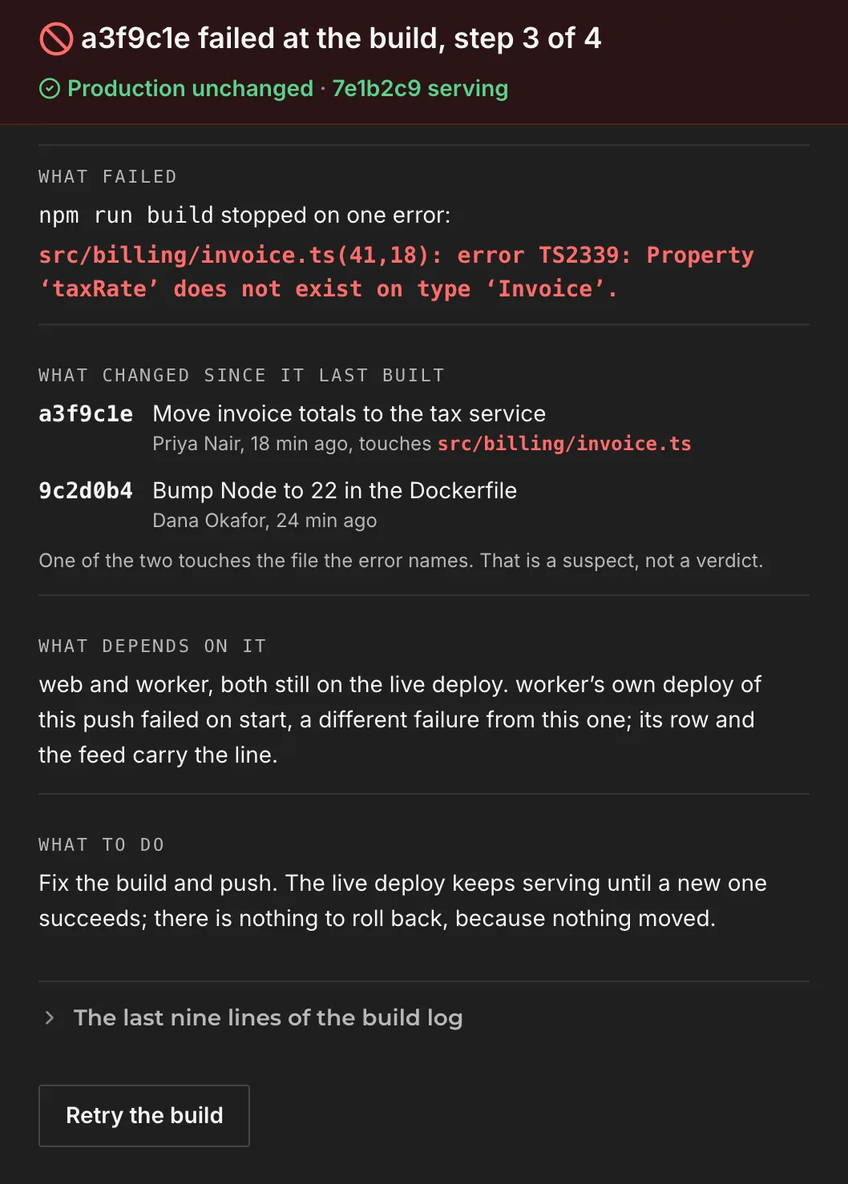
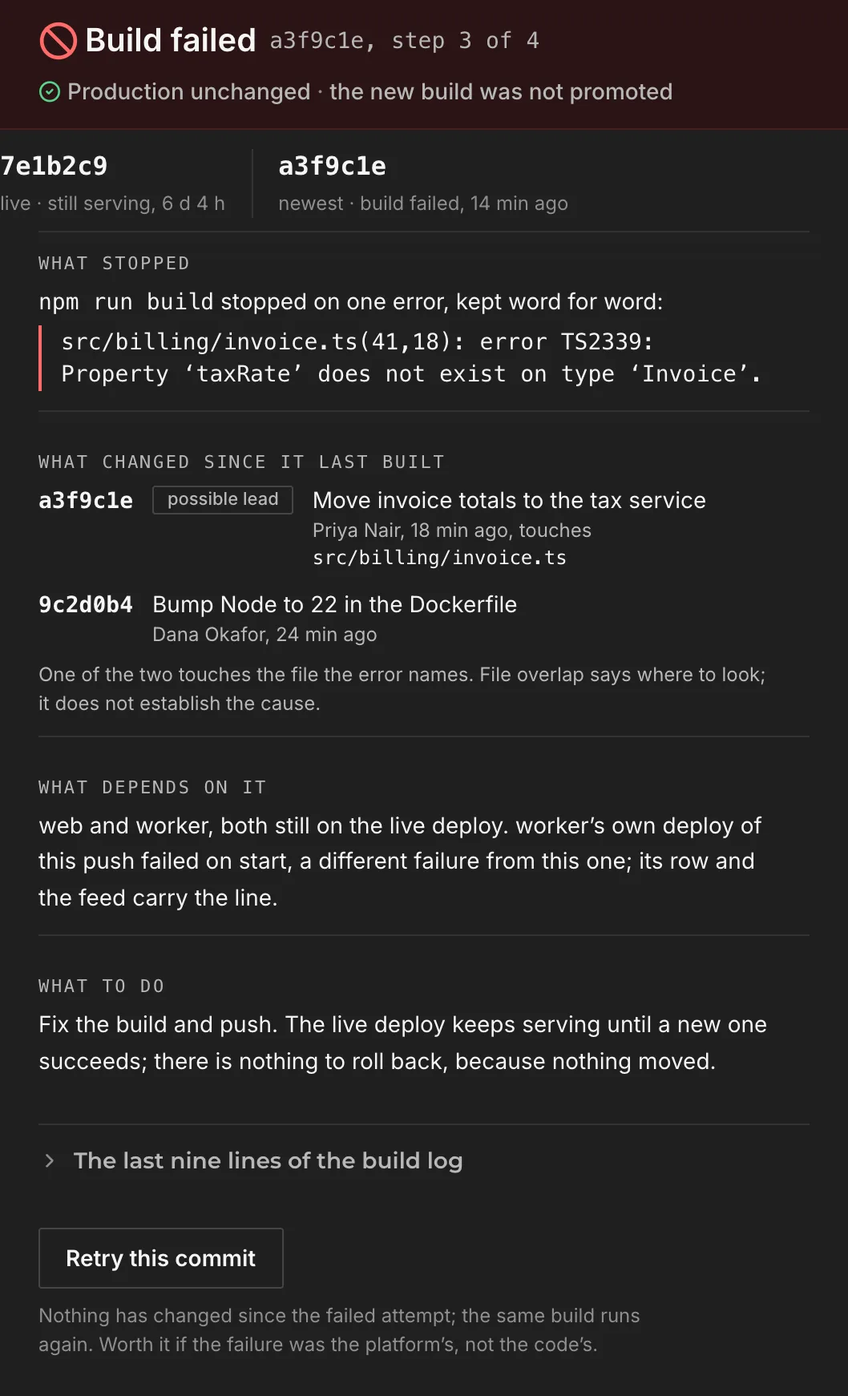
The console's first deploy and its refusal after a critique: absence as a state, deploy apart from run, the error as the anchor, the suspect as a lead
Part 2, the overview and the first deploy. The never-deployed row was a
row of muted gray that read as disabled; it is a state now: "Not deployed
· no version is serving", "None yet", "not available · runs after the
first deploy", and a Deploy button in the row, so the empty state leads
somewhere without a press on the row first. The last column is headed
Action, since it answers "what can I do from here" and the answer differs
by kind. The project card reads as a sentence about the system, "6 · 3
serving, 2 datastores, 1 not deployed", and says "1 failing" when one is.
The chip says "All services healthy" in the normal state, quietly, so a
missing chip is never the signal. The first deploy's card is a readiness
list, requirement then value then provenance as a tertiary mono line, with
a small check on each; the steps carry a muted numeral after their state
glyph; while it runs the button becomes a state line rather than a
disabled button; and after it lands two figures keep deploy success apart
from run success: "Live · deploy · 9f3e1a2" and "Not yet · first run",
then "Completed, 4 s". The headline is "nightly-report has never
deployed." over "Nothing is wrong. No version of this job has been built
or run yet." An open row and its drawer share a violet edge.

Part 3, the refusal. The header is a 20px "Build failed" with the commit
and step in the second ink beside it, over "Production unchanged · the
new build was not promoted" at medium weight with a green glyph rather
[…]

diff --git a/prototype/deploy-console.js b/prototype/deploy-console.js
@@ -478,7 +478,7 @@
      "none": nothing to probe, and the word says why in the detail. */
   function health(s) {
     if (!s.deploys) return { state: 'none', word: 'provisioned' };
-    if (!s.deploys.length) return { state: 'none', word: 'never deployed' };
+    if (!s.deploys.length) return { state: 'none', word: 'not available', fig: 'runs after the first deploy' };
     const n = newest(s);
     if (n && n.first && n.status === 'live') {
       return state.first && state.first.ran
@@ -559,6 +559,9 @@
     }
     const refused = state.services.find((s) => { const n = newest(s); return n && n.status === 'failed' && live(s); });
     if (refused) return { tone: 'green', glyph: 'checkCircle', text: `Production unchanged <span class="dc-sep" aria-hidden="true">&middot;</span> ${esc(live(refused).commit)} serving` };
+    /* The normal state says so quietly, so a chip that is missing is never
+       the signal; what is missing is an incident. */
+    if (state.services.some((s) => live(s))) return { tone: 'quiet', glyph: 'checkCircle', text: 'All services healthy' };
     return null;
   }
   const incidentChip = () => { const i = incident(); return i ? `<p class="dc-incident" data-tone="${i.tone}">${icon(i.glyph)}<span>${i.text}</span></p>` : ''; };
@@ -618,6 +621,7 @@
     const p = DATA.project;
     const serving = state.services.filter((s) => live(s)).length;
     const never = state.services.filter((s) => s.deploys && !s.deploys.length).length;
+    const failing = state.services.filter((s) => live(s) && health(s).state === 'failing').length;
     const stores = state.services.filter((s) => !s.deploys).length;
     const last = state.services
       .map((s) => ({ s, d: newest(s) }))
@@ -626,7 +630,7 @@
     const lastWord = last ? `${last.s.id}, ${ago(last.d.ago)}${last.d.status === 'failed' ? ', failed' : last.d.status === 'building' ? ', building' : ''}` : 'none';
     $('.dc-project', root).innerHTML = `
       <dl class="dc-project-facts">
-        <div><dt>${icon('boxes')}Services</dt><dd>${serving} of ${state.services.length} serving, ${stores} datastores${never ? `, ${never} never deployed` : ''}</dd></div>
+        <div><dt>${icon('boxes')}Resources</dt><dd>${state.services.length} <span class="dc-sep" aria-hidden="true">&middot;</span> ${serving - failing} serving${failing ? `, ${failing} failing` : ''}, ${stores} datastores${never ? `, ${never} not deployed` : ''}</dd></div>
         <div><dt>${icon('commit')}Last deploy</dt><dd>${esc(lastWord)}</dd></div>
         <div><dt>${icon('pin')}Region</dt><dd>${esc(p.region)}</dd></div>
         <div><dt>${icon('clock')}Now</dt><dd>${clock(p.nowMin)}</dd></div>
@@ -703,8 +707,12 @@
 
   /* One commit in a "what changed" list: the hash, the message, who and
      when, and the file the error names when this commit touched it. */
+  /* THE SUSPECT IS A LEAD, NOT A VERDICT, and its treatment says so: a
+     quiet tag, the file in the ordinary ink, and the fine line under the
+     list saying what file overlap does and does not establish. It used to
+     be a red file name, which reads as a culprit whatever the copy says. */
   const changeRow = (c, suspectFile) => `<li class="dc-change${suspectFile && c.touches === suspectFile ? ' is-suspect' : ''}">
-    <span class="dc-sha">${esc(c.sha)}</span>
+    <span class="dc-sha">${esc(c.sha)}${suspectFile && c.touches === suspectFile ? ` <span class="dc-tag dc-tag-lead">possible lead</span>` : ''}</span>
     <span class="dc-change-body"><span class="dc-change-msg">${esc(c.msg)}</span>
       <span class="dc-change-who">${esc(c.by)}, ${ago(c.ago)}${c.touches ? `, touches <span class="dc-file">${esc(c.touches)}</span>` : ''}</span></span>
   </li>`;
@@ -733,7 +741,14 @@
      the button names one row; the card's button names everything the plan
      will take. */
   function rollbackButton(s, cls = 'dc-btn', terse = false) {
-    if (!s.deploys || !s.deploys.length) return '';
+    if (!s.deploys) return '';
+    /* A service that has never deployed can be deployed from its row: the
+       empty state leads somewhere without a press on the row first. */
+    if (!s.deploys.length) {
+      if (!s.first) return '';
+      if (state.first && !state.first.done) return `<button type="button" class="${cls.replace('dc-btn-primary', 'dc-btn-quiet')}${cls.includes('dc-btn-quiet') ? '' : ' dc-btn-quiet'}" aria-disabled="true" data-focus="deploy">Deploying&hellip;</button>`;
+      return `<button type="button" class="${cls}${cls.includes('dc-btn-quiet') || cls.includes('dc-btn-primary') ? '' : ' dc-btn-quiet'}" data-deploy="${esc(s.id)}" data-focus="deploy">Deploy${terse ? `<span class="dc-btn-id dc-btn-id--quiet"> ${esc(s.id)}</span>` : ` ${esc(s.id)}`}</button>`;
+    }
     /* IN FLIGHT: the control admits the press was taken and refuses a second
        one. Not disabled in the DOM, so it stays in the tab order and reads;
        aria-disabled says what it is. */
@@ -863,23 +878,31 @@
         <p class="dc-lead-kicker dc-label">First deploy</p>
         <h3 class="dc-answer-h">${done
           ? (fs.ran ? `${esc(s.id)} ran once and wrote its report. It runs at 3:00 am from now on.` : `${esc(s.id)} is live at its first deploy.`)
-          : fs ? `Deploying ${esc(s.id)} for the first time.` : `${esc(s.id)} was created and has never deployed.`}</h3>
+          : fs ? `Deploying ${esc(s.id)} for the first time.` : `${esc(s.id)} has never deployed.`}</h3>
         <p class="dc-answer-dek">${done
           ? (fs.ran ? `Exit 0 in 4 seconds, one report written to ${esc('postgres')}. Nothing more to set up.` : `Built from ${esc(f.commit)} and scheduled. The first run is at 3:00 am; run it now to see one succeed before then.`)
-          : fs ? `Four steps, in order. The build and start commands come from the repository; the schedule was set when the job was created.` : `Nothing is wrong; nothing has happened yet. Three of the four things it needs were read from the repository, and one was set by hand.`}</p>
+          : fs ? `Four steps, in order. The build and start commands come from the repository; the schedule was set when the job was created.` : `Nothing is wrong. No version of this job has been built or run yet. Three of the four things it needs were read from the repository, and one was set by hand.`}</p>
         <div class="dc-pair">
           <div class="dc-card" data-enter="first:${esc(s.id)}">
-            <p class="dc-card-head">${done ? 'The first deploy' : 'Before the first deploy'}</p>
-            <dl class="dc-answers">
-              <div><dt>Build command</dt><dd><span class="dc-cmd">${esc(f.build)}</span> <span class="dc-answers-fine">read from package.json</span></dd></div>
-              <div><dt>Start command</dt><dd><span class="dc-cmd">${esc(f.start)}</span> <span class="dc-answers-fine">read from package.json</span></dd></div>
-              <div><dt>Schedule</dt><dd>${esc(f.schedule)} <span class="dc-answers-fine">set when the job was created</span></dd></div>
-              <div><dt>Needs</dt><dd>${esc('postgres')}, which is provisioned; its address is already in the environment.</dd></div>
+            <p class="dc-card-head">${done ? 'The first deploy' : 'Ready to deploy'}</p>
+            ${done ? `<div class="dc-figures">
+              ${figure('Live', `deploy · ${f.commit}`)}
+              ${figure(fs.ran ? 'Completed, 4 s' : 'Not yet', `first run · ${fs.ran ? 'exit 0' : 'scheduled 3:00 am'}`)}
+            </div>` : ''}
+            <!-- THE READINESS LIST: requirement, value, provenance, one
+                 hierarchy. The check is small and quiet; four large green
+                 ticks would be decoration. Provenance is the tertiary line,
+                 there to be verified, not to be read every time. -->
+            <dl class="dc-answers dc-ready">
+              <div><dt>${icon('check')}Build command</dt><dd><span class="dc-cmd">${esc(f.build)}</span> <span class="dc-answers-fine">&#8627; package.json</span></dd></div>
+              <div><dt>${icon('check')}Start command</dt><dd><span class="dc-cmd">${esc(f.start)}</span> <span class="dc-answers-fine">&#8627; package.json</span></dd></div>
+              <div><dt>${icon('check')}Schedule</dt><dd>${esc(f.schedule)} <span class="dc-answers-fine">&#8627; set when the job was created</span></dd></div>
+              <div><dt>${icon('check')}Needs</dt><dd>${esc('postgres')}, provisioned <span class="dc-answers-fine">&#8627; its address is in the environment</span></dd></div>
             </dl>
-            ${fs ? `<ol class="dc-steps" aria-label="The deploy, step by step">${f.steps.map((t, i) => `<li data-step="${i < stepAt ? 'done' : i === stepAt ? 'now' : 'next'}">${icon(i < stepAt ? 'checkCircle' : i === stepAt ? 'clock' : 'circle')}<span>${esc(t)}</span></li>`).join('')}</ol>` : ''}
+            ${fs ? `<ol class="dc-steps" aria-label="The deploy, step by step">${f.steps.map((t, i) => `<li data-step="${i < stepAt ? 'done' : i === stepAt ? 'now' : 'next'}">${icon(i < stepAt ? 'checkCircle' : i === stepAt ? 'clock' : 'circle')}<span class="dc-step-n" aria-hidden="true">${i + 1}</span><span>${esc(t)}</span></li>`).join('')}</ol>` : ''}
             <p class="dc-card-act">${done
               ? (fs.ran ? `<button type="button" class="dc-btn dc-btn-quiet" aria-disabled="true">Ran ${icon('check')} exit 0</button>` : `<button type="button" class="dc-btn dc-btn-primary" data-run="${esc(s.id)}" data-focus="deploy">Run it now</button>`)
-              : fs ? `<button type="button" class="dc-btn dc-btn-quiet" aria-disabled="true" data-focus="deploy">Deploying&hellip;</button>`
+              : fs ? `<span class="dc-card-state" data-focus="deploy" tabindex="-1">${icon('clock')}Deploying ${esc(s.id)}</span>`
               : `<button type="button" class="dc-btn dc-btn-primary" data-deploy="${esc(s.id)}" data-focus="deploy">Deploy ${esc(s.id)}</button>`}</p>
           </div>
           <div class="dc-aside" data-enter="aside:${esc(s.id)}">
@@ -907,20 +930,27 @@
         <div class="dc-pair">
           <div class="dc-fail" data-enter="fail:${esc(s.id)}">
             <div class="dc-fail-head">
-              <p class="dc-fail-title">${icon('ban', 'dc-fail-glyph')}${esc(n.commit)} failed at the ${esc(f.stage)}, step ${f.step} of ${f.of}</p>
-              <p class="dc-fail-status">${icon('checkCircle')}<span>Production unchanged <span class="dc-sep" aria-hidden="true">&middot;</span> ${esc(l.commit)} serving</span></p>
+              <p class="dc-fail-title">${icon('ban', 'dc-fail-glyph')}Build failed <span class="dc-fail-title-sub">${esc(n.commit)}, step ${f.step} of ${f.of}</span></p>
+              <p class="dc-fail-status">${icon('checkCircle')}<span>Production unchanged <span class="dc-sep" aria-hidden="true">&middot;</span> the new build was not promoted</span></p>
+            </div>
+            <!-- LIVE AGAINST NEWEST, compact, at the top of the refusal: the
+                 one fact a reader wants before the diagnosis, without going
+                 back to the table for it. -->
+            <div class="dc-figures dc-fail-vs">
+              ${figure(esc(l.commit), `live · still serving, ${span(l.ago)}`)}
+              ${figure(esc(n.commit), `newest · build failed, ${ago(n.ago)}`)}
             </div>
             <dl class="dc-answers">
-              <div><dt>What failed</dt><dd><span class="dc-cmd">${esc(f.cmd)}</span> stopped on one error: <span class="dc-line">${esc(f.line)}</span></dd></div>
+              <div><dt>What stopped</dt><dd><span class="dc-cmd">${esc(f.cmd)}</span> stopped on one error, kept word for word: <span class="dc-line">${esc(f.line)}</span></dd></div>
               <div><dt>What changed since it last built</dt><dd>
                 <ol class="dc-changes">${n.changes.map((c) => changeRow(c, 'src/billing/invoice.ts')).join('')}</ol>
-                <span class="dc-answers-fine">One of the two touches the file the error names. That is a suspect, not a verdict.</span>
+                <span class="dc-answers-fine">One of the two touches the file the error names. File overlap says where to look; it does not establish the cause.</span>
               </dd></div>
               <div><dt>What depends on it</dt><dd>${deps.map((d) => esc(d.id)).join(' and ')}, both still on the live deploy. worker&rsquo;s own deploy of this push failed on start, a different failure from this one; its row and the feed carry the line.</dd></div>
               <div><dt>What to do</dt><dd>Fix the build and push. The live deploy keeps serving until a new one succeeds; there is nothing to roll back, because nothing moved.${state.retried ? ' <strong>Retried once, at ' + clock(DATA.project.nowMin) + ': the same error on the same line.</strong>' : ''}</dd></div>
             </dl>
             ${logDisclosure(f.log, 'error TS2339', 'The last nine lines of the build log')}
-            <p class="dc-card-act"><button type="button" class="dc-btn dc-btn-quiet" data-retry="${esc(s.id)}" data-focus="retry">Retry the build</button></p>
+            <p class="dc-card-act"><button type="button" class="dc-btn dc-btn-quiet" data-retry="${esc(s.id)}" data-focus="retry">Retry this commit</button><span class="dc-card-act-note">Nothing has changed since the failed attempt; the same build runs again. Worth it if the failure was the platform&rsquo;s, not the code&rsquo;s.</span></p>
           </div>
           <div class="dc-aside" data-enter="aside:${esc(s.id)}">
             <h4 class="dc-h">Live and serving</h4>
@@ -1226,7 +1256,10 @@
     { key: 'newest',  label: 'Newest deploy', sortable: true, unit: 'latest push, may not be live' },
     { key: 'health',  label: 'Health',       sortable: true },
     { key: 'deps',    label: 'Depends on',   sortable: false },
-    { key: 'act',     label: 'Roll back',    sortable: false, act: true },
+    /* The last column answers "what can I do from here": Roll back on a
+       deployed service, Deploy on one that never has, nothing on a
+       datastore. So it is headed Action, not Roll back. */
+    { key: 'act',     label: 'Action',       sortable: false, act: true },
   ];
 
   const HEALTH_ORDER = { failing: 0, recovering: 1, ok: 2, none: 3 };
@@ -1243,7 +1276,7 @@
   function newestCell(s) {
     const n = newest(s);
     if (!s.deploys) return `<span class="dc-cell-note">provisioned, not deployed</span>`;
-    if (!n) return `<span class="dc-cell-note">never</span>`;
+    if (!n) return `<span class="dc-cell-text">None yet</span>`;
     const l = live(s);
     const same = l && l.commit === n.commit && n.status === 'live';
     const tag = n.status === 'failed' ? `<span class="dc-tag dc-tag-failed">${icon('ban')}failed</span>`
@@ -1322,13 +1355,13 @@
       const same = l && n && l.commit === n.commit && n.status === 'live';
       const dot = '<span class="dc-sep" aria-hidden="true">&middot;</span>';
       const phoneSum = !s.deploys ? '' : `<span class="dc-svc-sum">
-          <span>${l ? `live <span class="dc-svc-when"><span class="dc-sha">${esc(l.commit)}</span> ${dot} ${l.ago < 1 ? 'just now' : span(l.ago)}</span>` : 'nothing live yet'}</span>
-          <span>${!n ? 'never deployed' : n.rollback || !same ? `newest <span class="dc-svc-when"><span class="dc-sha">${esc(n.commit)}</span> ${tag || `${dot} ${ago(n.ago)}`}</span>` : 'newest is the live one'}</span>
+          <span>${l ? `live <span class="dc-svc-when"><span class="dc-sha">${esc(l.commit)}</span> ${dot} ${l.ago < 1 ? 'just now' : span(l.ago)}</span>` : 'not deployed'}</span>
+          <span>${!n ? 'newest: none yet' : n.rollback || !same ? `newest <span class="dc-svc-when"><span class="dc-sha">${esc(n.commit)}</span> ${tag || `${dot} ${ago(n.ago)}`}</span>` : 'newest is the live one'}</span>
         </span>`;
-      return `<tr class="${cls.join(' ')}" data-service="${esc(s.id)}" style="--i:${i}">
+      return `<tr class="${cls.join(' ')}" data-service="${esc(s.id)}"${open ? ' data-open="true"' : ''} style="--i:${i}">
         <th scope="row" class="dc-cell-svc"><button type="button" class="dc-row-more" data-more="${esc(s.id)}" data-focus="more:${esc(s.id)}" aria-expanded="${open}" aria-controls="dc-detail-${esc(s.id)}">${esc(s.id)}<span class="dc-visually-hidden">, ${open ? 'hide' : 'show'} its history</span>${icon('expand', 'dc-icon dc-row-chev')}</button>${phoneSum}</th>
         <td class="dc-cell-type">${esc(s.type)}</td>
-        <td class="dc-cell-live">${l ? `<span class="dc-sha">${esc(l.commit)}</span><span class="dc-cell-note">serving for ${span(l.ago)}</span>` : `<span class="dc-cell-note">${s.deploys ? 'nothing yet' : 'n/a'}</span>`}</td>
+        <td class="dc-cell-live">${l ? `<span class="dc-sha">${esc(l.commit)}</span><span class="dc-cell-note">serving for ${span(l.ago)}</span>` : s.deploys ? `<span class="dc-cell-text">Not deployed</span><span class="dc-cell-note">no version is serving</span>` : `<span class="dc-cell-note">n/a</span>`}</td>
         <td class="dc-cell-newest">${newestCell(s)}</td>
         <td class="dc-cell-health" data-health="${h.state}"><span class="dc-health-word">${h.state === 'failing' ? icon('alert') : h.state === 'ok' ? icon('checkCircle') : h.state === 'recovering' ? icon('undo') : ''}${esc(h.word)}</span>${h.fig ? `<span class="dc-cell-note">${esc(h.fig)}</span>` : ''}</td>
         <td class="dc-cell-deps">${s.needs.length ? s.needs.map(esc).join(', ') : '<span class="dc-cell-note">nothing</span>'}</td>

diff --git a/prototype/deploy-console.html b/prototype/deploy-console.html
@@ -129,7 +129,7 @@
   <!-- The chapters arrive as they are read. See reveal.css for why this is
        its own pair of files rather than style.css's .reveal. -->
   <link rel="stylesheet" href="../reveal.css?v=2" />
-  <link rel="stylesheet" href="deploy-console.css?v=29" />
+  <link rel="stylesheet" href="deploy-console.css?v=30" />
   <link rel="stylesheet" href="../read-aloud.css?v=4" />
   <!-- EMBED MODE, the cockpit's own flag on this page too. The homepage's
        prototype card opens the console in a tablet over the page, and what
@@ -148,7 +148,7 @@
   <script src="../read-aloud.js?v=3" defer></script>
   <!-- The console. Deferred, no dependencies, no build step; the synthetic
        project is the object at the top of the file. -->
-  <script src="deploy-console.js?v=25" defer></script>
+  <script src="deploy-console.js?v=26" defer></script>
   <!-- The header logo plays a one-shot reveal clip on load and fades out
        over the static mark as it finishes. The class is set here, before
        first paint, so the static mark never flashes ahead of the animation;
@@ -468,7 +468,7 @@
                     <li><strong>&ldquo;Latest&rdquo; is the word that causes the outage call.</strong> A list sorted newest-first shows a failed deploy at the top and a developer reads it as the one serving traffic. The word &ldquo;live&rdquo; is reserved for the deploy that is serving.</li>
                     <li><strong>The first question is answered before it is asked.</strong> The project card counts what is serving, what is a datastore and what has never deployed, so &ldquo;what is going on with my system&rdquo; has one line of answer before any scrolling.</li>
                     <li><strong>An age is a fact too.</strong> Six days live with 0.2% errors is the sentence the failing deploy is measured against, and it sits beside the failure rather than in a history tab.</li>
-                    <li><strong>The empty row says why it is empty, and leads somewhere.</strong> A cron job that has never deployed reads &ldquo;never deployed&rdquo; and, one press down, &ldquo;nothing is wrong; nothing has happened yet.&rdquo; The first-deploy situation is that row taken to its end: what the deploy needs, where each thing came from, the four steps in order, and a first run to see it succeed.</li>
+                    <li><strong>The empty row says why it is empty, and leads somewhere.</strong> A cron job that has never deployed reads &ldquo;Not deployed&rdquo; with a Deploy button in its row, and, one press down, &ldquo;nothing is wrong; nothing has happened yet.&rdquo; The first-deploy situation is that row taken to its end: what the deploy needs, where each thing came from, the four steps in order, and a first run to see it succeed.</li>
                   </ul>
                 </div>
               </details>
@@ -495,9 +495,9 @@
               <ol class="dcw-frames">
                 <li class="dcw-frame--fail">
                   <div class="dcw-scroll">
-                    <img src="../img/console/failed.webp?v=12" width="1058" height="1478" loading="lazy" decoding="async" alt="A card with a red header reading &ldquo;a3f9c1e failed at the build, step 3 of 4&rdquo;, with four labeled answers under it: what failed, with the TypeScript error line in red; what changed since it last built, two commits, one marked as touching src/billing/invoice.ts; what depends on it, web and worker, both still on the live deploy; and what to do, fix the build and push, with the build log folded under it and a button reading &ldquo;Retry the build&rdquo;." />
+                    <img src="../img/console/failed.webp?v=13" width="1058" height="1742" loading="lazy" decoding="async" alt="A card with a red header reading &ldquo;Build failed, a3f9c1e, step 3 of 4&rdquo; and, beside it, &ldquo;Production unchanged, the new build was not promoted&rdquo;; under the header two figures, 7e1b2c9 live and still serving for 6 d 4 h, a3f9c1e newest and failed 14 min ago; then four labeled answers: what stopped, with the TypeScript error kept word for word on a red rule; what changed since it last built, two commits, one tagged possible lead for touching src/billing/invoice.ts; what depends on it, web and worker, both still on the live deploy; and what to do, fix the build and push, with the build log folded under it and a quiet button reading &ldquo;Retry this commit&rdquo; beside a line saying the same build would run again." />
                   </div>
-                  <p class="dcw-frame-cap"><span>A refusal</span> The platform would not promote it. The red header, production unchanged beside it, and the one thing to do. <a class="dcw-full" href="../img/console/failed.webp?v=12">Full size &#8599;<span class="visually-hidden">, the refusal</span></a></p>
+                  <p class="dcw-frame-cap"><span>A refusal</span> The platform would not promote it. The red header, production unchanged beside it, and the one thing to do. <a class="dcw-full" href="../img/console/failed.webp?v=13">Full size &#8599;<span class="visually-hidden">, the refusal</span></a></p>
                 </li>
                 <li class="dcw-frame--read">
                   <div class="dcw-scroll">

diff --git a/prototype/deploy-console.css b/prototype/deploy-console.css
@@ -2165,8 +2165,9 @@ html[data-embed] .dc { border-radius: 0; }
 @keyframes dc-card-in { from { opacity: 0; transform: translateY(var(--motion-rise)); } }
 .dc-card[data-shown],
 .dc-read[data-shown],
-.dc-fail[data-shown],
 .dc-aside[data-shown] { animation: dc-card-in var(--motion-enter) var(--ease-enter); }
+/* The refusal does not arrive. A status the platform already knows does
+   not benefit from sliding into view as though it were being discovered. */
 
 @keyframes dc-row-in { from { opacity: 0; transform: translateY(var(--motion-rise)); } }
 .dc-table tbody[data-shown] > tr[data-service] {
@@ -2678,3 +2679,51 @@ html[data-embed] .dc { border-radius: 0; }
   .dc-table tbody th.dc-cell-svc:first-child { padding-left: 0; }
   .dc .dc-density-l { display: none; }
 }
+
+/* ======================= THE FIRST DEPLOY AND THE REFUSAL, AFTER A CRITIQUE
+   Part 2: the never-deployed row is a state with an action, not a row of
+   muted gray; the first deploy is a readiness list, numbered vertical
+   steps and a state line while it runs; deploy success and run success
+   are two figures. Part 3: the refusal's title over a subordinate
+   production line; the error kept literal on a red rule rather than in
+   red; live against newest at the top; the suspect as a lead. ========== */
+
+/* The never-deployed row's state words take the ordinary ink. */
+.dc-table .dc-cell-live .dc-cell-text, .dc-table .dc-cell-newest .dc-cell-text { font-size: var(--text-sm); color: var(--rd-ink-2); }
+
+/* The open row and its drawer are one object: a violet edge down both. */
+.dc-table tr[data-open="true"] > th:first-child,
+.dc-table tr[data-open="true"] + .dc-row-detail > td { box-shadow: inset 2px 0 0 var(--rd-violet-ink); }
+
+/* The readiness list: a small check on the label, provenance tertiary. */
+.dc .dc-ready dt { display: inline-flex; align-items: center; gap: var(--space-2xs); }
+.dc .dc-ready dt .dc-icon { height: 1lh; color: var(--rd-green); }
+.dc .dc-ready .dc-answers-fine { display: block; margin-top: 2px; font-family: var(--font-mono); font-size: var(--text-xs); }
+
+/* The steps: state, then a muted numeral, then the name. */
+.dc .dc-step-n { flex-shrink: 0; min-width: 1.25em; font-size: var(--text-xs); color: var(--rd-ink-muted); }
+.dc .dc-card-state { display: inline-flex; align-items: center; gap: var(--space-2xs); font-size: var(--text-sm); font-weight: var(--weight-semibold); line-height: var(--leading-ui); color: var(--rd-ink); }
+.dc .dc-card-state .dc-icon { height: 1lh; color: var(--rd-ink-2); }
+
+/* The refusal's header: the title at xl, the sub-line in the second ink,
+   and the production line medium rather than a green badge. */
+.dc .dc-fail-title { font-size: var(--text-xl); }
+.dc .dc-fail-title-sub { font-family: var(--font-mono); font-size: var(--text-sm); font-weight: var(--weight-medium); color: var(--rd-ink-2); align-self: center; margin-left: var(--space-2xs); }
+.dc .dc-fail-status { font-weight: var(--weight-medium); color: var(--rd-ink-2); }
+.dc .dc-fail-status .dc-icon { color: var(--rd-green); }
+.dc-fail .dc-fail-vs { margin: var(--space-sm) 0 0; }
+.dc-fail .dc-fail-vs .dc-figure-v { font-size: var(--text-base); }
+
+/* The error, kept literal, on a rule rather than in red. */
+.dc .dc-line { color: var(--rd-ink); font-weight: var(--weight-regular); padding-left: var(--space-sm); border-left: 2px solid var(--rd-red); }
+
+/* The suspect commit: a lead. */
+.dc .dc-change.is-suspect .dc-file { color: var(--rd-ink); font-weight: var(--weight-medium); }
+.dc .dc-tag-lead { margin-left: var(--space-2xs); border-color: var(--rd-rule); background: var(--rd-raised); color: var(--rd-ink-2); font-family: var(--rd-font); font-weight: var(--weight-medium); text-transform: none; letter-spacing: var(--tracking-normal); vertical-align: 0.15em; }
+
+/* The log, recessed. */
+.dc .dc-log { padding: var(--space-xs) var(--space-sm) var(--space-xs) var(--space-xl); background: var(--rd-canvas); border-radius: var(--rd-radius); }
+
+/* Retry, with its consequence beside it. */
+.dc .dc-card-act { display: flex; flex-wrap: wrap; align-items: center; gap: var(--space-xs) var(--space-md); }
+.dc .dc-card-act-note { max-width: var(--measure); font-size: var(--text-xs); line-height: var(--leading-ui); color: var(--rd-ink-muted); }
